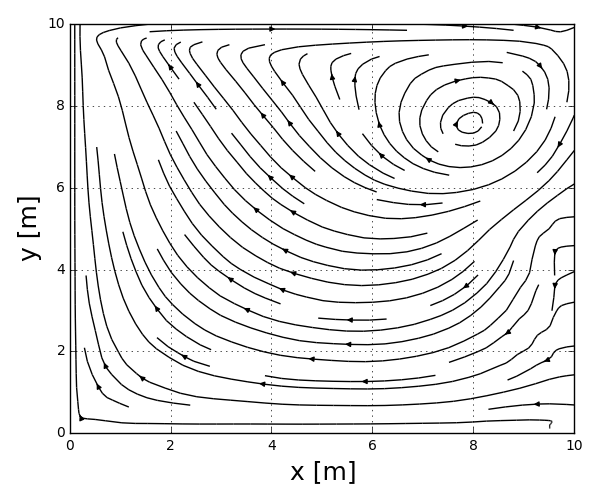
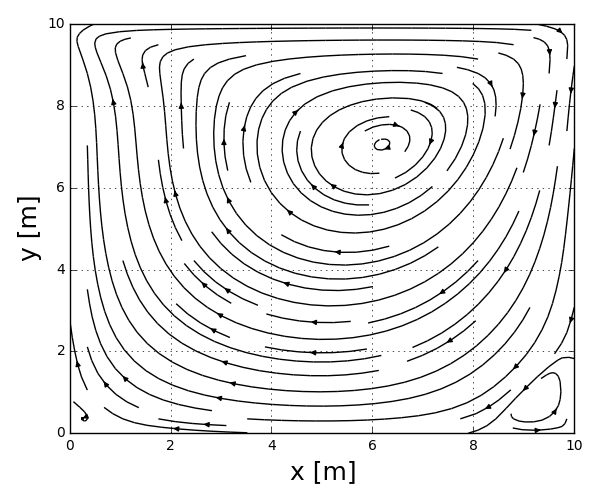
added fixed version

Changed region(s): [[0.12, 0.03, 0.96, 0.87]]

diff --git a/src/functions/timeIntegrate.py b/src/functions/timeIntegrate.py
@@ -14,12 +14,18 @@ def timeIntegrate(inputDict):
    nIterWrite  = int(inputDict['nIterWrite'])
    nOrderTime  = int(inputDict['nOrderTime'])
 
+   if nOrderTime == 2:
+      pNew = np.zeros((imax,jmax))
+      uNew = np.zeros((imax,jmax))
+      vNew = np.zeros((imax,jmax))
+
    # initialize residual variables for p, u, and v
    residualInit = np.zeros(3)
    residual     = np.zeros(3)
 
    # start to count time for calculting computation performance
    start = time.clock()
+
 
    # Non-dimensionalize flow and domain variables
    nondimensionalize(inputDict, 1, 1)
@@ -44,12 +50,32 @@ def timeIntegrate(inputDict):
       updateQvector(inputDict, dt)
 
       # update primative vector U
-      if nOrderTime == 1:
+      if nOrderTime == 1 or nIter == 1:
          for j in range(jmax):
             for i in range(imax):
                flowVars.p[i,j] += dt * FDM.Q[0][i,j]
                flowVars.u[i,j] += dt * FDM.Q[1][i,j]
                flowVars.v[i,j] += dt * FDM.Q[2][i,j]
+      if nOrderTime == 2:
+         if nIter > 1:
+            # New values: n+1 time level
+            for j in range(jmax):
+               for i in range(imax):
+                  pNew[i,j] = pOld[i,j] + 2.0*dt * FDM.Q[0][i,j]
+                  uNew[i,j] = uOld[i,j] + 2.0*dt * FDM.Q[1][i,j]
+                  vNew[i,j] = vOld[i,j] + 2.0*dt * FDM.Q[2][i,j] 
+         # Old values: n-1 time level
+         pOld = flowVars.p
+         uOld = flowVars.u
+         vOld = flowVars.v
+         if nIter > 1:
+            flowVars.p = pNew
+            flowVars.u = uNew
+            flowVars.v = vNew
+
+
+      # update boundary condition for pressure only
+      updatePressureBC(imax, jmax)
 
       # compute residual value to verify convergence
       residual = computeResidual(imax, jmax, dt, FDM.Q)
@@ -60,7 +86,7 @@ def timeIntegrate(inputDict):
 
       t += dt
       MachX, MachY = computeMaximumMach(imax, jmax, beta)
-      print "|- nIter = %s" % nIter, ", dt = %.4f" % dt, ", Maximum Mach_x = %.4f" % MachX, ", Maximum Mach_y = %.4f" % MachY, ", u-residual = %.4f" % resNorm
+      print "|- nIter = %s" % nIter, ", t = %.6f" % t, ", dt = %.6f" % dt, ", Maximum Mach_x = %.4f" % MachX, ", Maximum Mach_y = %.4f" % MachY, ", u-residual = %.4f" % resNorm
 
       if (nIter % nIterWrite == 0):
          dimensionalize(inputDict, 1, 1)
@@ -86,12 +112,12 @@ def timeIntegrate(inputDict):
    #plotContour(domainVars.x, domainVars.y, phi, phiMin, phiMax, pltFile)
 
    # plot contour of velocity magnitude
-   pltFile = 'Umag_contour.png'
-   flowVars.Umag = np.sqrt(flowVars.u ** 2 + flowVars.v ** 2)
-   phi = flowVars.Umag
-   phiMin = phi.min()
-   phiMax = phi.max()
-   plotContour(domainVars.x, domainVars.y, phi, phiMin, phiMax, pltFile)
+   #pltFile = 'Umag_contour.png'
+   #flowVars.Umag = np.sqrt(flowVars.u ** 2 + flowVars.v ** 2)
+   #phi = flowVars.Umag
+   #phiMin = phi.min()
+   #phiMax = phi.max()
+   #plotContour(domainVars.x, domainVars.y, phi, phiMin, phiMax, pltFile)
 
    # plot streamline of velocity
    plotStreamLine(domainVars.x, domainVars.y, flowVars.u, flowVars.v, nIter)

diff --git a/src/functions/solutionMethod.py b/src/functions/solutionMethod.py
@@ -7,6 +7,9 @@ def nondimensionalize(inputDict, idomain, iflow):
       Lref = domainVars.Lref
       domainVars.x = domainVars.x / Lref
       domainVars.y = domainVars.y / Lref
+      domainVars.dx = domainVars.dx / Lref
+      domainVars.dy = domainVars.dy / Lref
+
    # iflow: nondimensionalize only flow variables
    if iflow == 1:
       Uref = flowVars.Uref
@@ -19,7 +22,9 @@ def dimensionalize(inputDict, idomain, iflow):
    if idomain == 1:
       Lref = domainVars.Lref
       domainVars.x = domainVars.x * Lref
+      domainVars.dx = domainVars.dx * Lref
       domainVars.y = domainVars.y * Lref
+      domainVars.dy = domainVars.dy * Lref
    # iflow: nondimensionalize only flow variables
    if iflow == 1:
       Uref = flowVars.Uref
@@ -58,7 +63,8 @@ def updateQvector(inputDict, dt):
       if n == 0: 
          # if True, the flux vector will have non-zero value at boundary
          # in order to update the primative variable at such boundary.
-         updateBoundary = True
+         #updateBoundary = True
+         updateBoundary = False
       else:
          updateBoundary = False
       # clean Q vector to store new values
@@ -175,3 +181,35 @@ def computeMaximumMach(imax, jmax, beta):
    MachY = np.sqrt( Vsqr / Asqr )
    MachY = MachY.max()
    return MachX, MachY
+
+
+def updatePressureBC(imax, jmax):
+   # left boundary
+   i = 0
+   for j in range(jmax-1):
+      if j == 0: continue
+      flowVars.p[i,j] = flowVars.p[i+1,j]
+
+   # right boundary
+   i = imax - 1
+   for j in range(jmax-1):
+      if j == 0: continue
+      flowVars.p[i,j] = flowVars.p[i-1,j]
+
+   # bottom boundary
+   j = 0
+   for i in range(imax-1):
+      if i == 0: continue
+      flowVars.p[i,j] = flowVars.p[i,j+1]
+
+   # upper boundary
+   j = jmax - 1
+   for i in range(imax-1):
+      if i == 0: continue
+      flowVars.p[i,j] = flowVars.p[i,j-1]
+
+   # update corner ponints
+   flowVars.p[0,0] = flowVars.p[1,1]
+   flowVars.p[imax-1,0] = flowVars.p[imax-2,1]
+   flowVars.p[0,jmax-1] = flowVars.p[1,jmax-2]
+   flowVars.p[imax-1,jmax-1] = flowVars.p[imax-2,jmax-2]

diff --git a/src/functions/init.py b/src/functions/init.py
@@ -22,7 +22,7 @@ def initFlowVars(inputDict):
 
 
 def updateBC(inputDict,imax,jmax):
-   # update boundary values in dimensionalized form
+   # update boundary values of u and v in dimensionalized form
    # Left boundary
    flowVars.u[0,:] = float(inputDict['uLeft'])
    flowVars.v[0,:] = float(inputDict['vLeft'])
